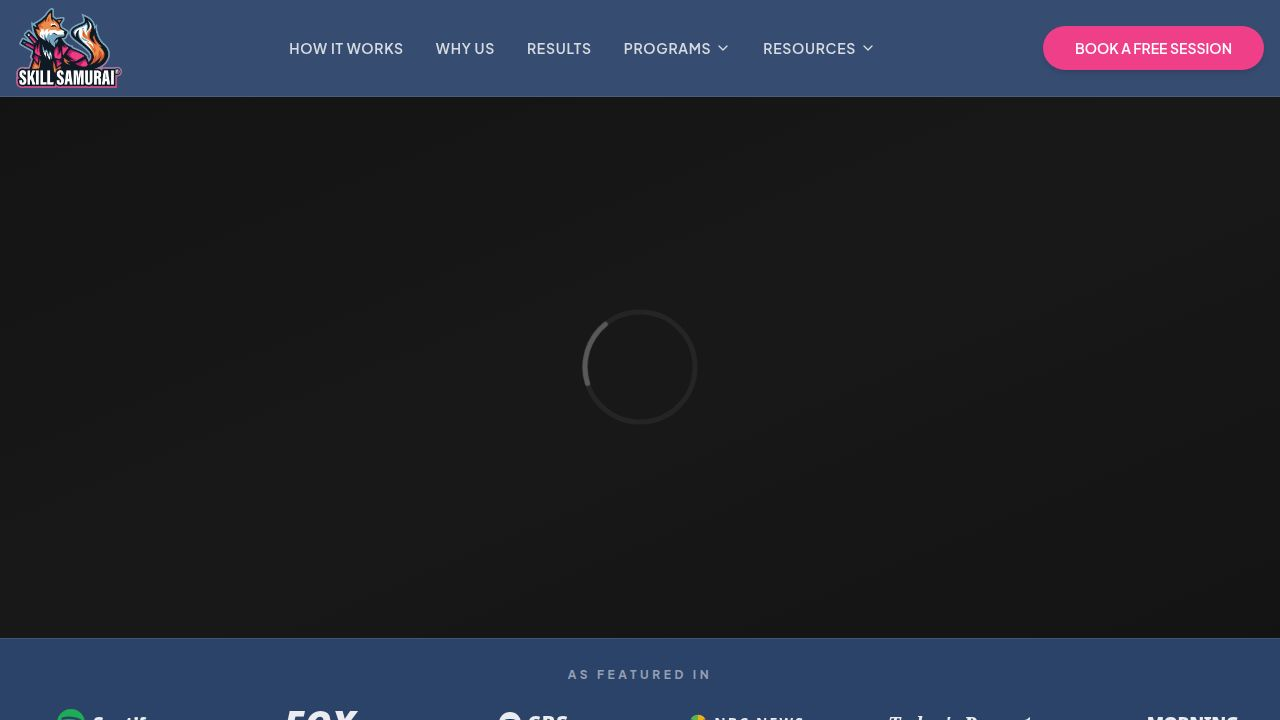
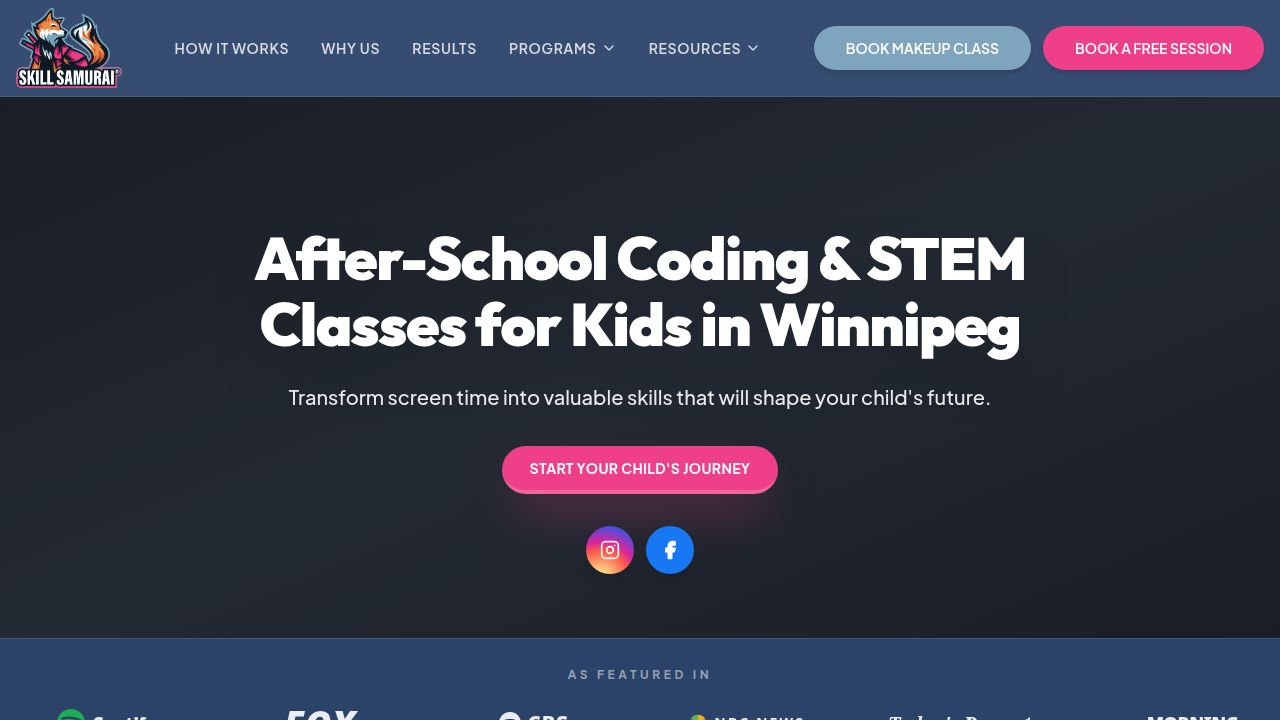
Remove the intermediate booking confirmation pop-up for free trials
Removes the `BookingConfirmationModal` component, updates the locations section to directly open booking URLs, and cleans up related imports and the component file.

Replit-Commit-Author: Agent
Replit-Commit-Session-Id: 71dcaed8-caac-4175-b41d-6c00141656ea
Replit-Commit-Checkpoint-Type: full_checkpoint
Replit-Commit-Event-Id: 4627b060-f9c9-415f-b05a-6aa749d15a4e
Replit-Commit-Screenshot-Url: https://storage.googleapis.com/screenshot-production-us-central1/af962ec5-b95a-4dd5-9c82-ccafa5032904/71dcaed8-caac-4175-b41d-6c00141656ea/Taagzxj
Replit-Helium-Checkpoint-Created: true

diff --git a/artifacts/skill-samurai/src/components/sections/locations.tsx b/artifacts/skill-samurai/src/components/sections/locations.tsx
@@ -4,7 +4,6 @@ import React from "react";
 import { FadeIn } from "@/components/ui/fade-in";
 import { MapPin, Clock, ArrowRight, CalendarClock, Sparkles, CalendarCheck } from "lucide-react";
 import { openCalendarModal } from "@/components/ui/calendar-modal";
-import { openBookingConfirmation } from "@/components/ui/booking-confirmation-modal";
 
 const locations = [
   {
@@ -76,7 +75,7 @@ export default function Locations() {
               <FadeIn key={loc.name} delay={i * 0.1} direction="up">
                 <button
                   type="button"
-                  onClick={() => openBookingConfirmation({ locationName: loc.name, bookHref: loc.bookHref })}
+                  onClick={() => openPopup(loc.bookHref)}
                   aria-label={`Book a free trial at Skill Samurai ${loc.name}`}
                   className={`group block w-full h-full text-left bg-white rounded-3xl p-6 sm:p-8 border-2 border-white/20 ${ring} shadow-2xl shadow-black/30 hover:-translate-y-1 transition-all duration-300 focus:outline-none focus-visible:ring-4 focus-visible:ring-accent/60 cursor-pointer`}
                 >

diff --git a/artifacts/skill-samurai/src/app/layout.tsx b/artifacts/skill-samurai/src/app/layout.tsx
@@ -21,7 +21,6 @@ import Footer from "@/components/footer";
 import { CalendarModal } from "@/components/ui/calendar-modal";
 import { BookingModal } from "@/components/ui/booking-modal";
 import { MakeupModal } from "@/components/ui/makeup-modal";
-import { BookingConfirmationModal } from "@/components/ui/booking-confirmation-modal";
 
 export const metadata: Metadata = {
   metadataBase: new URL("https://winnipeg.skillsamurai.com"),
@@ -154,7 +153,6 @@ export default function RootLayout({
           <CalendarModal />
           <BookingModal />
           <MakeupModal />
-          <BookingConfirmationModal />
         </Providers>
         <script
           type="application/ld+json"